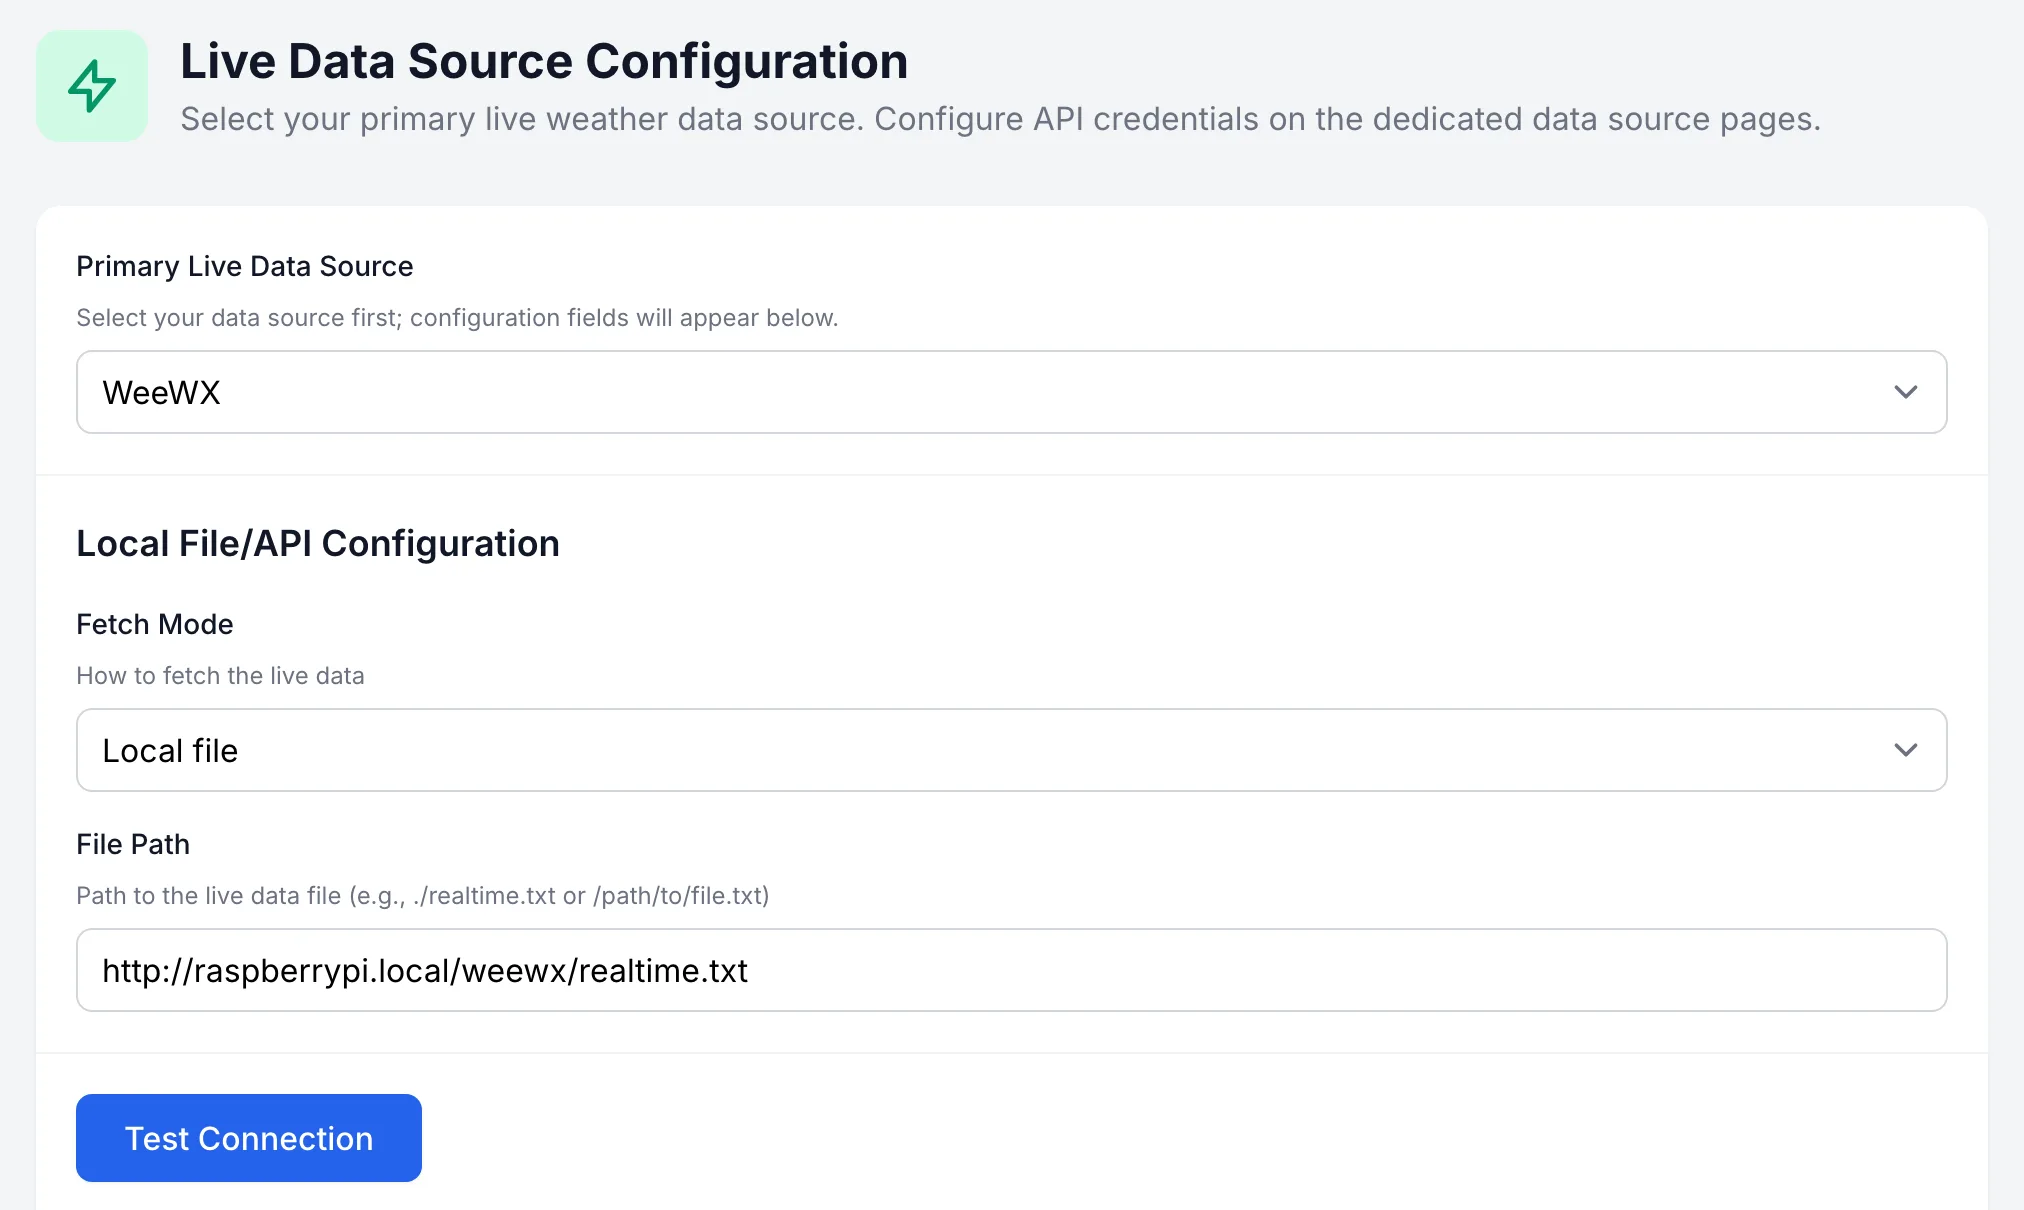
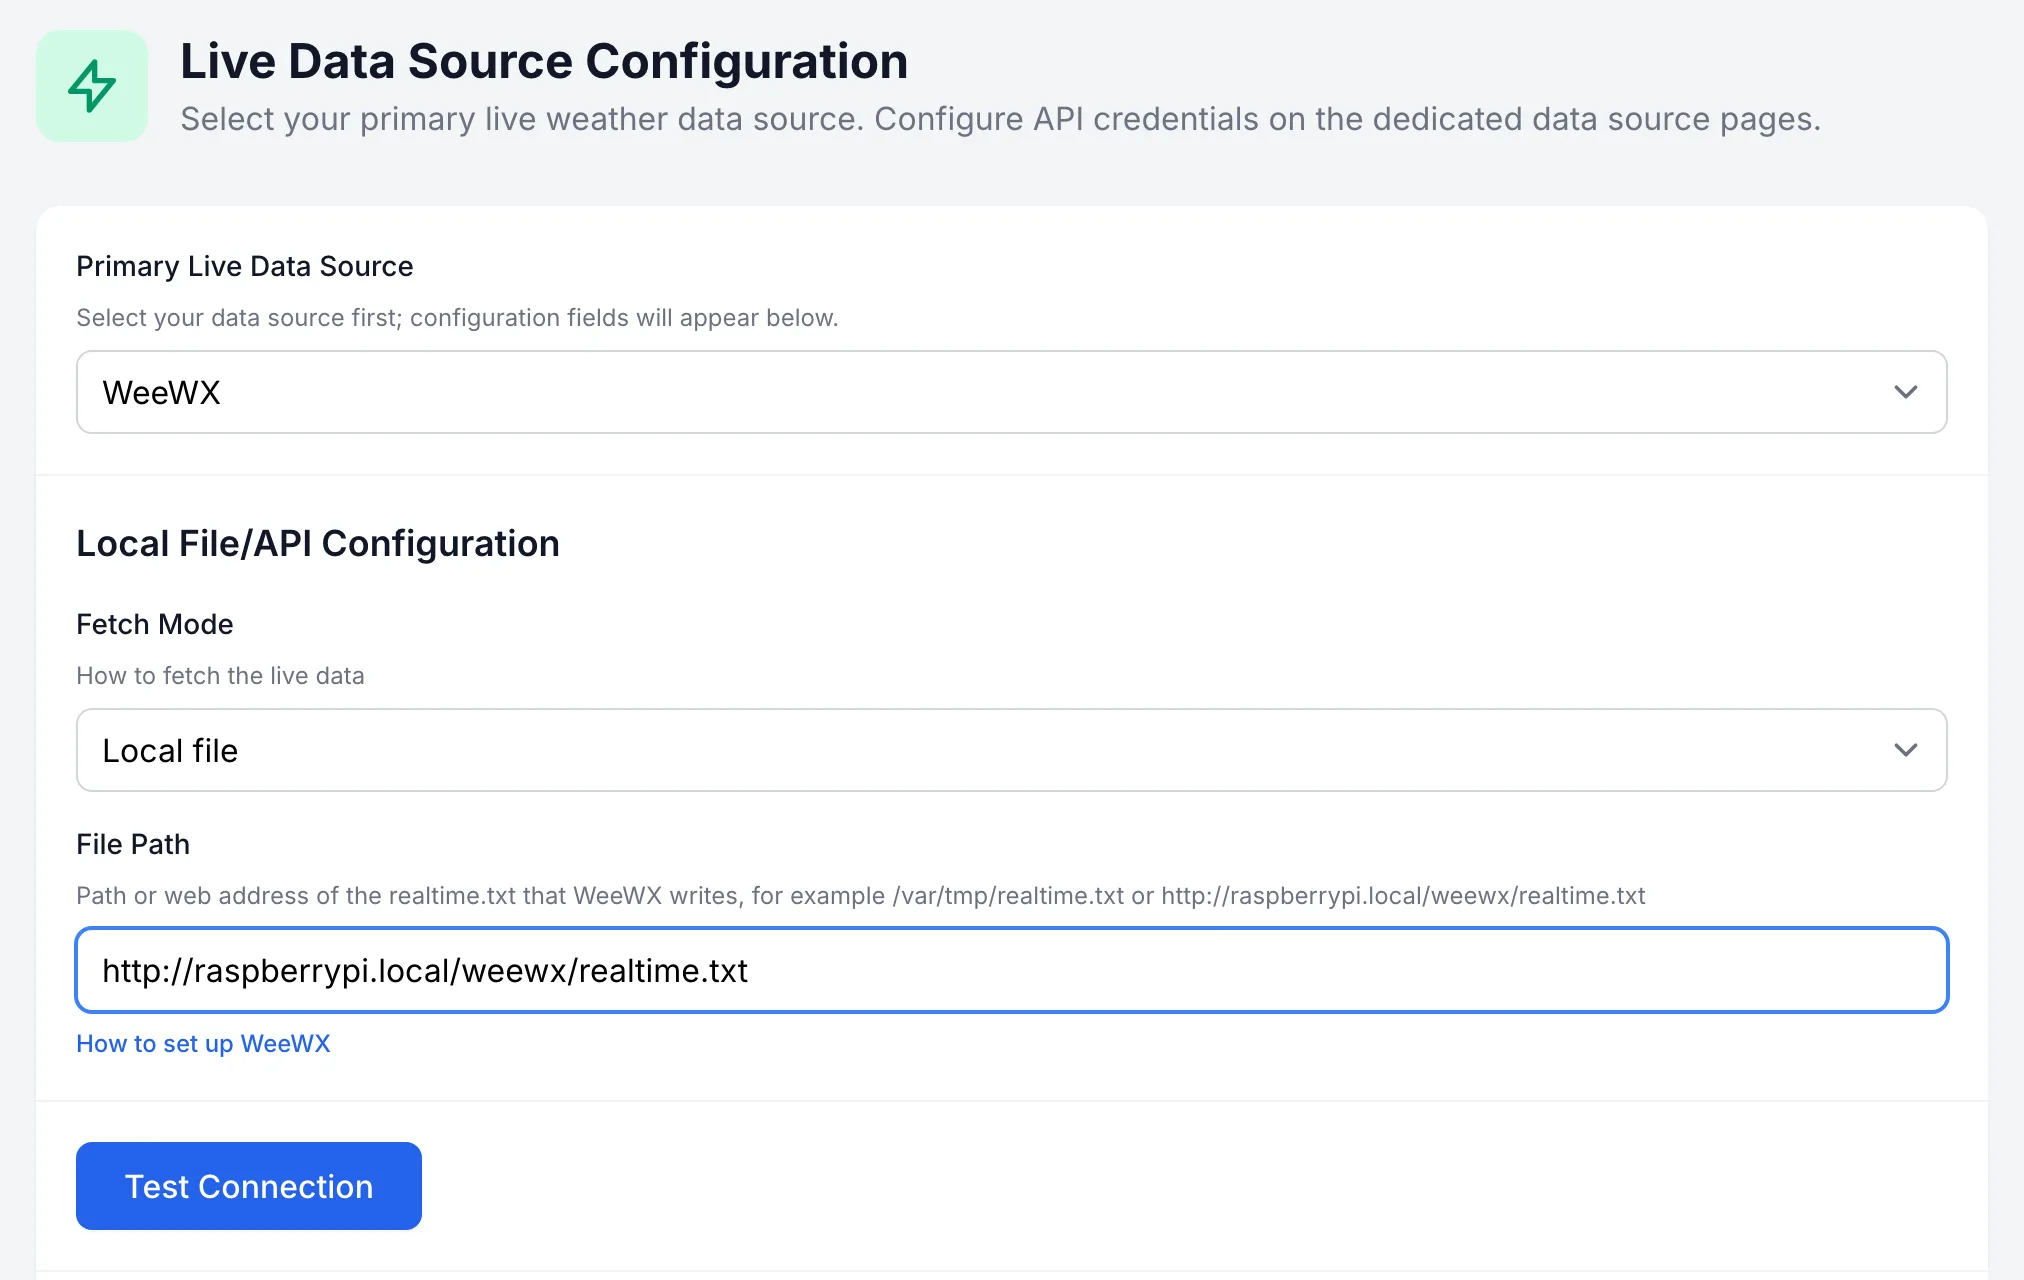
Show a matching example file for each local data source
File Path showed the Ecowitt default, ./ecowitt/ecco_lcl.arr, for WeeWX, Cumulus and the other local formats, and one hint for all of them. Each format now shows its own example: realtime.txt, clientraw.txt, or the WeeWX path with a link to the guide. The Ecowitt default is hidden for these formats and comes back when you switch to Ecowitt.

diff --git a/resources/views/admin/settings/livedata.blade.php b/resources/views/admin/settings/livedata.blade.php
@@ -8,6 +8,34 @@
     $fetchMode = \App\Models\Setting::getValue('livedata.fetch_mode', 'file');
     $filePath = \App\Models\Setting::getValue('livedata.file_path', './ecowitt/ecco_lcl.arr');
     $apiUrl = \App\Models\Setting::getValue('livedata.api_url', '');
+
+    // An example file for each local format. The Ecowitt file is the shipped
+    // default and means nothing to these formats, so it is not shown for them.
+    $ecowittDefaultPath = './ecowitt/ecco_lcl.arr';
+    $realtimeExample = [
+        'placeholder' => '/path/to/realtime.txt',
+        'hint' => __('Path or web address of your realtime.txt file, for example /path/to/realtime.txt or http://192.168.1.10/realtime.txt'),
+    ];
+    $clientrawExample = [
+        'placeholder' => '/path/to/clientraw.txt',
+        'hint' => __('Path or web address of your clientraw.txt file, for example /path/to/clientraw.txt or http://192.168.1.10/clientraw.txt'),
+    ];
+    $localFileExamples = [
+        'cumulus' => $realtimeExample,
+        'weewx' => [
+            'placeholder' => '/var/tmp/realtime.txt',
+            'hint' => __('Path or web address of the realtime.txt that WeeWX writes, for example /var/tmp/realtime.txt or http://raspberrypi.local/weewx/realtime.txt'),
+        ],
+        'weathercat' => $realtimeExample,
+        'meteohub' => $clientrawExample,
+        'wswin' => $clientrawExample,
+        'weatherlink' => $realtimeExample,
+        'wifilogger' => $realtimeExample,
+        'MB_rt' => $realtimeExample,
+        'wd' => $clientrawExample,
+    ];
+    $localFileExample = $localFileExamples[$format] ?? $realtimeExample;
+    $shownFilePath = isset($localFileExamples[$format]) && $filePath === $ecowittDefaultPath ? '' : $filePath;
     
     
     // WeatherLink demo mode requires API key (only API credential allowed on livedata page)
@@ -269,13 +297,17 @@
                     </div>
                     <div id="local-file-config" style="display: {{ $fetchMode === 'file' ? 'block' : 'none' }};">
                         <label for="livedata_file_path" class="block text-sm font-medium text-gray-900 dark:text-white mb-2">{{ __('File Path') }}</label>
-                        <p class="text-xs text-gray-500 dark:text-gray-400 mb-2">{{ __('Path to the live data file (e.g., ./realtime.txt or /path/to/file.txt)') }}</p>
+                        <p id="livedata_file_path_hint" class="text-xs text-gray-500 dark:text-gray-400 mb-2">{{ $localFileExample['hint'] }}</p>
                         <input type="text"
                                name="livedata_file_path"
                                id="livedata_file_path"
-                               value="{{ $filePath }}"
+                               value="{{ $shownFilePath }}"
+                               data-saved="{{ $filePath }}"
                                class="w-full rounded-lg border-gray-300 dark:border-gray-600 dark:bg-gray-700 dark:text-white focus:ring-blue-500 dark:focus:ring-blue-400 focus:border-blue-500 dark:focus:border-blue-400"
-                               placeholder="./realtime.txt" />
+                               placeholder="{{ $localFileExample['placeholder'] }}" />
+                        <p id="livedata_weewx_guide" class="mt-2 text-xs" style="display: {{ $format === 'weewx' ? 'block' : 'none' }};">
+                            <a href="https://github.com/centauri/WeatherNode/blob/main/docs/WEEWX.md" target="_blank" rel="noopener" class="text-blue-600 dark:text-blue-400 hover:text-blue-800 dark:hover:text-blue-200 font-medium">{{ __('How to set up WeeWX') }}</a>
+                        </p>
                     </div>
                     <div id="local-api-config" style="display: {{ $fetchMode === 'local_api' ? 'block' : 'none' }};">
                         <label for="livedata_api_url" class="block text-sm font-medium text-gray-900 dark:text-white mb-2">{{ __('API URL') }}</label>
@@ -364,6 +396,25 @@
     const localApiConfig = document.getElementById('local-api-config');
     
     const localSources = ['cumulus', 'weewx', 'weathercat', 'meteohub', 'wswin', 'weatherlink', 'wifilogger', 'MB_rt', 'wd'];
+    const localFileExamples = @json($localFileExamples);
+    const ecowittDefaultPath = @json($ecowittDefaultPath);
+    const filePathInput = document.getElementById('livedata_file_path');
+    const filePathHint = document.getElementById('livedata_file_path_hint');
+    const weewxGuide = document.getElementById('livedata_weewx_guide');
+
+    function updateLocalFileExample() {
+        const format = formatSelect.value;
+        const example = localFileExamples[format];
+        if (!example || !filePathInput) {
+            // Back on Ecowitt: put its saved path back so saving keeps it.
+            if (filePathInput && filePathInput.value === '') filePathInput.value = filePathInput.dataset.saved || '';
+            return;
+        }
+        filePathInput.placeholder = example.placeholder;
+        if (filePathHint) filePathHint.textContent = example.hint;
+        if (weewxGuide) weewxGuide.style.display = format === 'weewx' ? 'block' : 'none';
+        if (filePathInput.value === ecowittDefaultPath) filePathInput.value = '';
+    }
     
     // Sources that only show info/link (no form fields)
     const infoOnlySources = ['ecowittAPI', 'wu', 'DWL', 'DWL_v2api', 'wf', 'AWapi'];
@@ -392,6 +443,7 @@
     }
 
     formatSelect?.addEventListener('change', updateVisibility);
+    formatSelect?.addEventListener('change', updateLocalFileExample);
     fetchModeSelect?.addEventListener('change', updateLocalConfigVisibility);
 
     // Test connection

diff --git a/tests/Feature/Admin/SettingsLiveDataTest.php b/tests/Feature/Admin/SettingsLiveDataTest.php
@@ -212,4 +212,29 @@ class SettingsLiveDataTest extends TestCase
         $this->assertSame($applicationKeyCiphertext, Setting::findOrFail('ambient.application_key')->value);
         $this->assertSame('AA:BB:CC:DD:EE:FF', Setting::getValue('ambient.mac_address'));
     }
+
+    /** The shipped Ecowitt default meant nothing to WeeWX and looked like a real setting. */
+    public function test_weewx_shows_its_own_example_instead_of_the_ecowitt_file(): void
+    {
+        Setting::setValue('livedata.format', 'weewx', 'select', 'livedata');
+        Setting::setValue('livedata.file_path', './ecowitt/ecco_lcl.arr', 'string', 'livedata');
+
+        $response = $this->actingAs($this->adminUser())->get(route('admin.settings.group', 'livedata'));
+
+        $this->assertMatchesRegularExpression('/id="livedata_file_path"\s+value=""/', $response->getContent());
+        $response->assertSee('placeholder="/var/tmp/realtime.txt"', false);
+        $response->assertSee('http://raspberrypi.local/weewx/realtime.txt', false);
+        $response->assertSee('docs/WEEWX.md', false);
+    }
+
+    public function test_weather_display_asks_for_clientraw_and_keeps_a_real_path(): void
+    {
+        Setting::setValue('livedata.format', 'wd', 'select', 'livedata');
+        Setting::setValue('livedata.file_path', '/srv/wd/clientraw.txt', 'string', 'livedata');
+
+        $response = $this->actingAs($this->adminUser())->get(route('admin.settings.group', 'livedata'));
+
+        $this->assertMatchesRegularExpression('#id="livedata_file_path"\s+value="/srv/wd/clientraw.txt"#', $response->getContent());
+        $response->assertSee('placeholder="/path/to/clientraw.txt"', false);
+    }
 }
